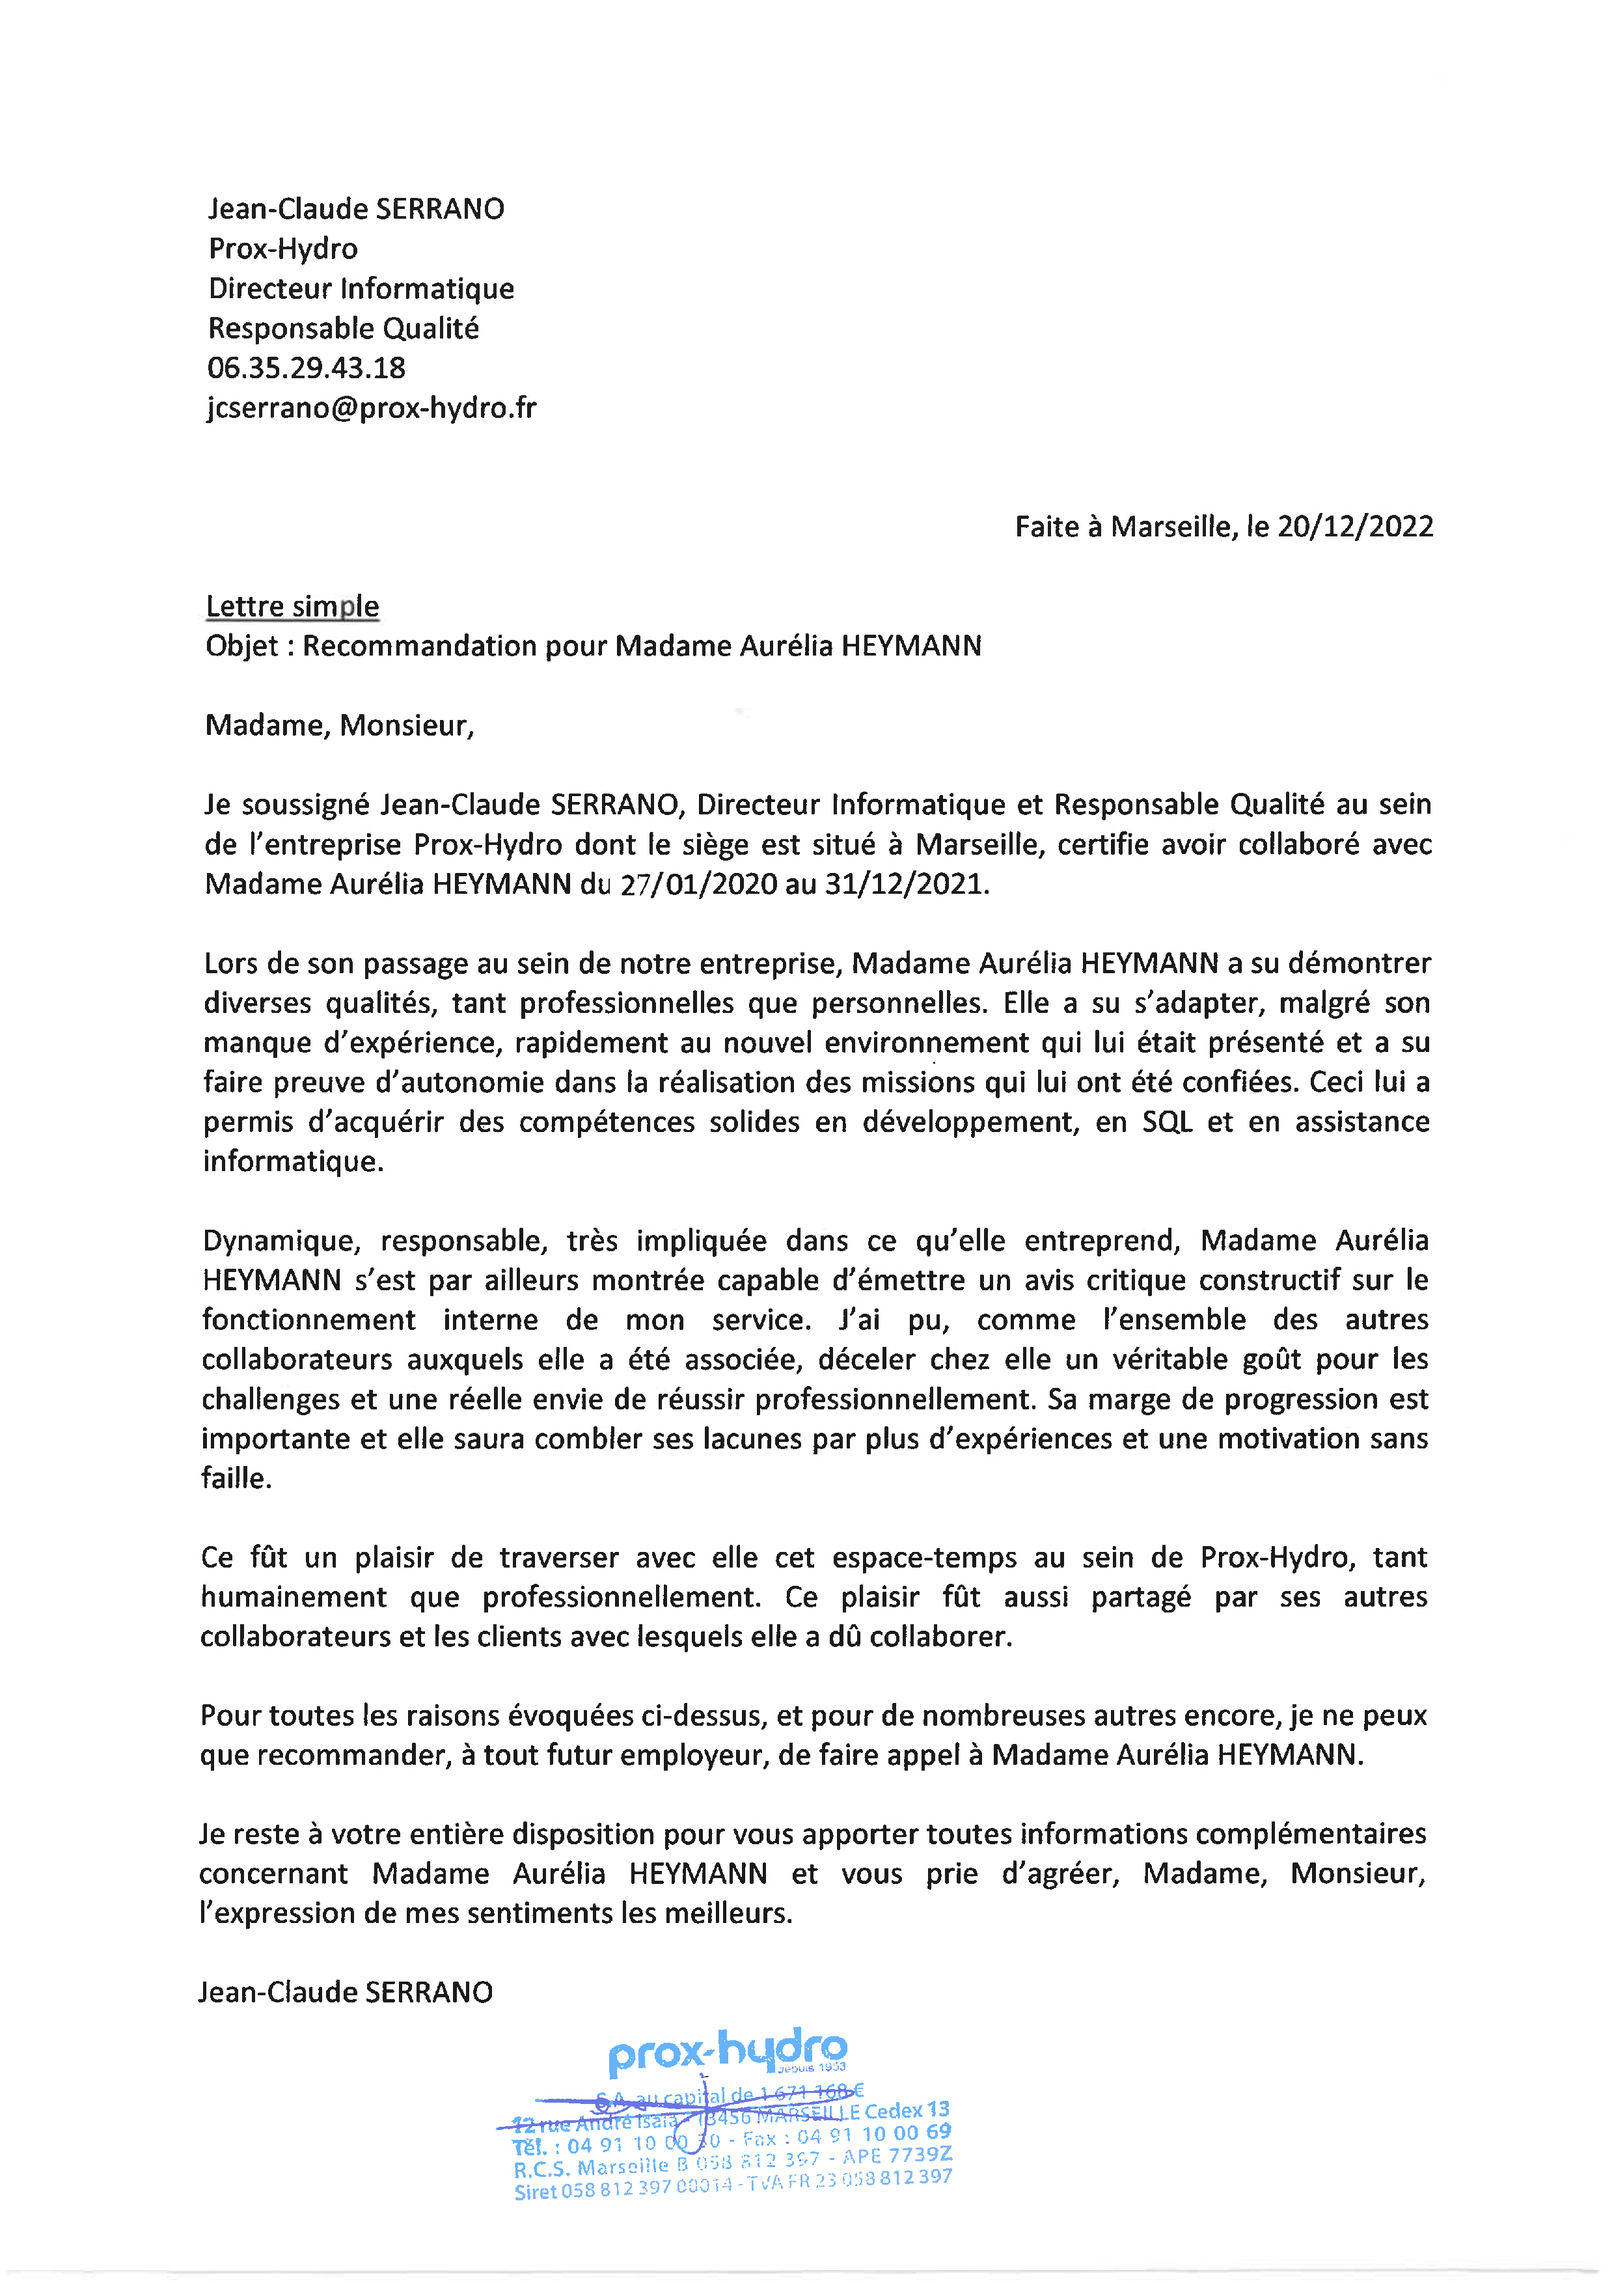
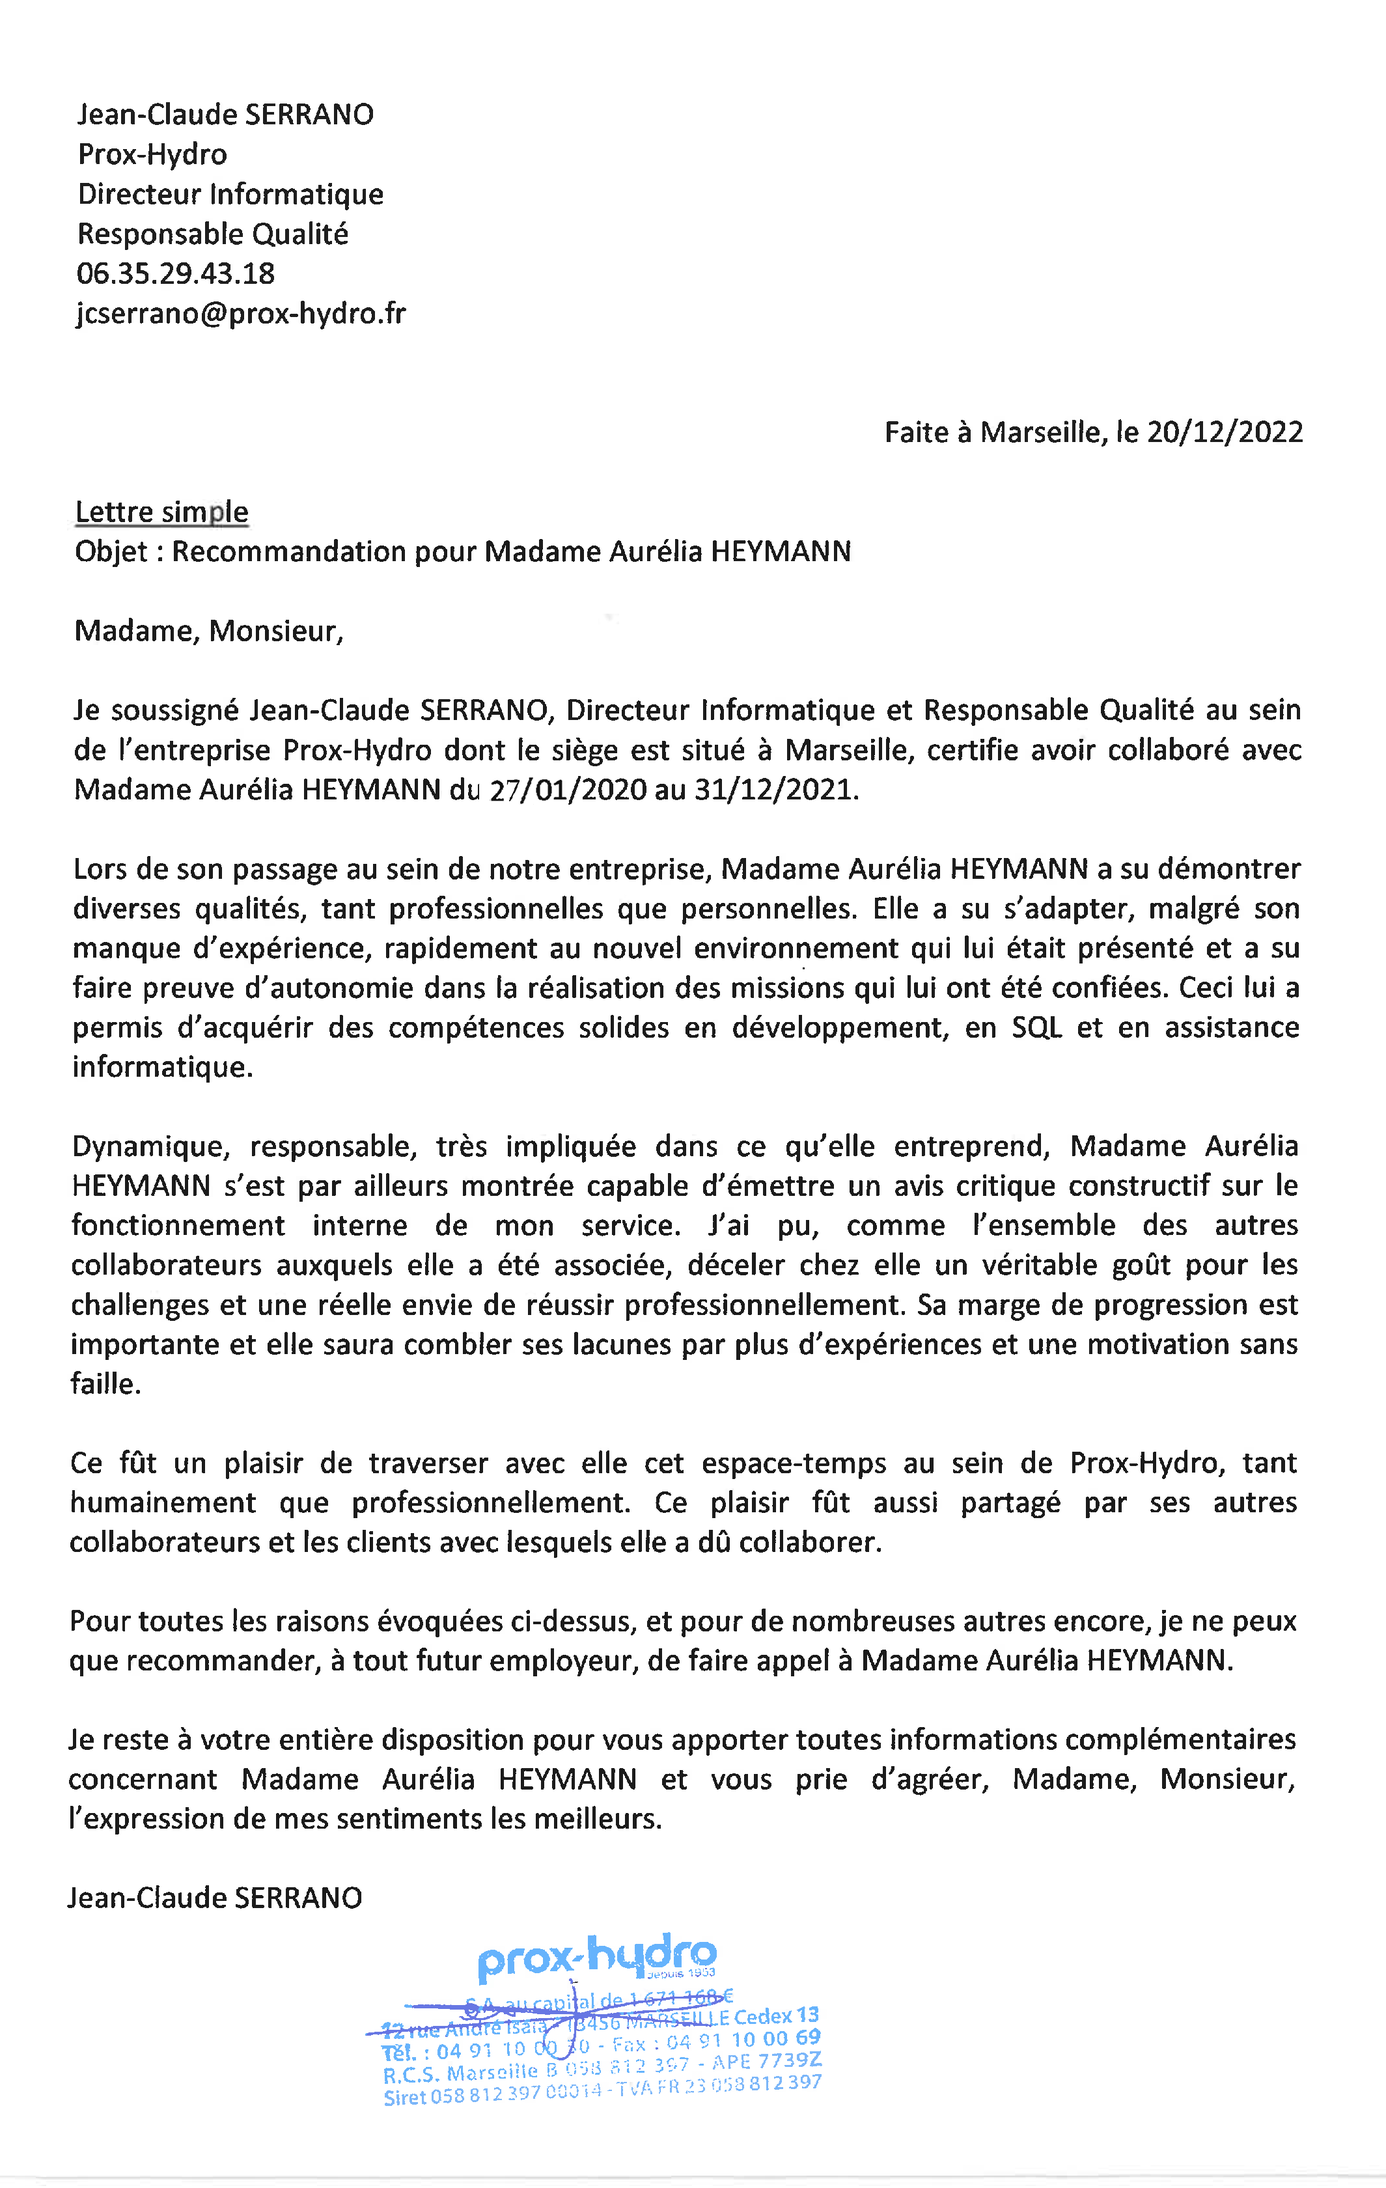
Lettre recommandation Lauriane transf en PNG

diff --git a/src/components/Recommendations.tsx b/src/components/Recommendations.tsx
@@ -82,7 +82,7 @@ export default function Recommendations() {
             // whileInView={{ opacity: 1 }}
             // transition={{ duration: 2 }}
 
-            src="/images/recommandationLauriane.jpg"
+            src="/images/recommandationLauriane.png"
             alt="Aurélia Heymann recommendations"
             // className="hidden rounded-lg shadow-lg w-full h-full md:block"
             className="rounded-lg shadow-xl border-4 border-white border-opacity-60 md:block "
